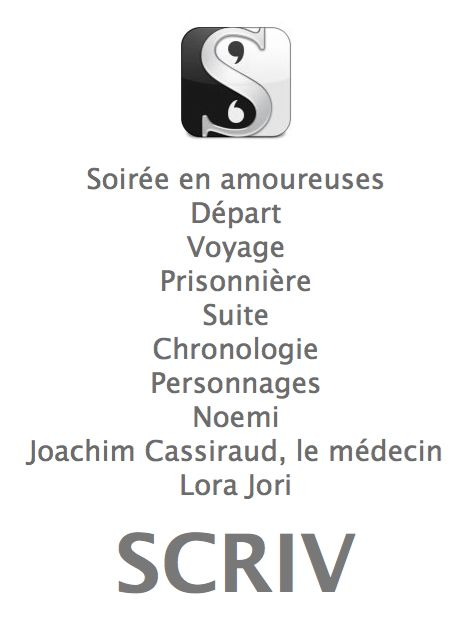
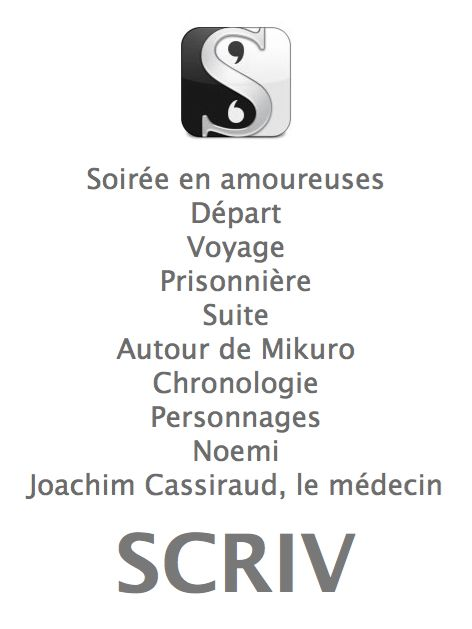
A few progress in Mikuro's orbit
8k and some words

Changed region(s): [[0.0593, 0.5135, 0.9492, 0.8156]]

diff --git a/Noemi.scriv/QuickLook/Preview.html b/Noemi.scriv/QuickLook/Preview.html
@@ -56,6 +56,10 @@ Je souris en coin sous le regard interrogateur de Joachim. J’avais appris ce j
 — Non, pas ici. J’aimerais que nous visitions un autre monde, celui que j’ai marqué X-34-12 dans le fichier que je vous ai envoyé. En combien de temps pouvons-nous être là-bas ?<br/>
 — Je demanderai à l’équipe d’astrogation....</p>
 </li>
+<li>
+<p class="binderItem"><strong>Autour de Mikuro</strong><br/>« Commandant, c’est un scandale ! J’ai encore des expériences à mener sur le vaisseau ! Je ne peux pas redescendre sur la planète maintenant !<br/>
+— Professeur Cassireau, c’est un ordre ! Il y a des dizaines de vaisseaux de la flotte impériale ici, et il est hors de question de risquer votre vie et celle de votre équipe dans cette bataille. Donc vous allez retourner sur Mikuro. Ils ne lanceront pas de missile sur la planète. En revanche, sur nous, oui. Je vous laisse une demi-heure pour vous prépare...</p>
+</li>
 </ul>
 
 </td>
